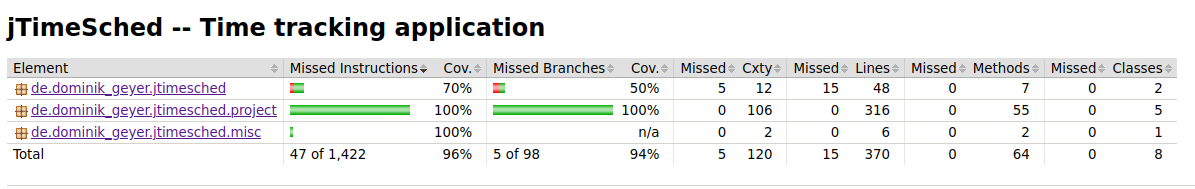
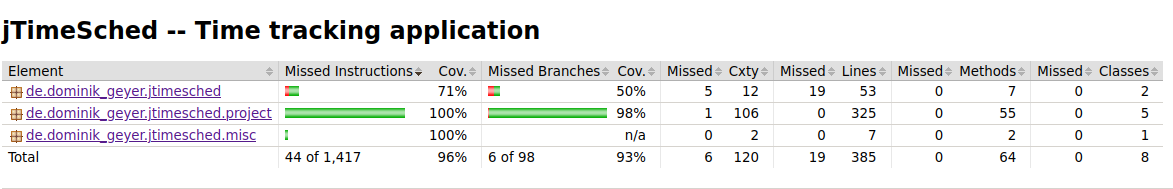
Add new images to the report

Changed region(s): [[0.0, 0.291, 1.0, 0.873], [0.0, 0.0794, 0.4604, 0.2381], [0.0, 0.9788, 1.0, 1.0]]

diff --git a/docs/05_assignment/05_assignment.md b/docs/05_assignment/05_assignment.md
@@ -11,12 +11,8 @@ And having into account the report generated by the _Jacoco_ plugin:
 
 ![](./figures/old_coverage_classes.png)
 
-<!-- TODO: ask about where to see the line coverage -->
-The percentage of test coverage represented by the tests in _assignments #3 and #2_ is **only 14%** in _branch coverage_ and **?%** in _line coverage_ , when not considering the _gui_ classes.
+The percentage of test coverage represented by the tests in _assignments #3 and #2_ is **only 15%** in _line coverage_ and **14%** in _branch coverage_ , when not considering the _gui_ classes.
 
-<!-- $$ line\space coverage = [1- \frac{273+48+6}{316+48+6}] \times 100\% = 11.62\%$$
-
-$$ branch\space coverage = [1-\frac{87+12+2}{106+12+2}] \times 100\% = 15.83\%$$ -->
 
 Yet, each test case from these assignments covered its target function at 100% in both _line coverage_ and _branch coverage_.
 
@@ -447,7 +443,6 @@ Assertions.assertEquals(expected, columnClass);
 **Outcome**: The tests passed successfully.
 
 #### Test 40 - testGetValueAt
-<!-- TODO: stopped reviewing here -->
 This test assesses a value of a project in a specific position in the `ProjectTableModel` instance.  
 
 This test works with two projects, in order to cover the branches. 
@@ -687,7 +682,7 @@ The first checks the name of the tag, the second checks the value associated, wh
 
 This test reads a `xml` file and verifies if all information contained in it was stored. For this, we have created a file to be read, located at `docs/05_assignment/inputDir/projectTest`.  
 
-This file contains two projects. The first one was designed to be the simplest as possible: there is no title, quotas, color, it's not checked neither running and no notes. The second project, on the other hand, was designed to be as complete as possible. This approach allows to test all the possible cases of conditions inside the `readXml` function. <!--TODO -->
+This file contains two projects. The first one was designed to be the simplest as possible: there is no title, quotas, color, it's not checked neither running and no notes. The second project, on the other hand, was designed to be as complete as possible. This approach allows to test almost all the possible cases of conditions inside the `readXml` function.
 
 In total there're 19 assertions in this tests. All of them are `assertEquals` verifications. 
 
@@ -750,7 +745,13 @@ In this test we verify if that the configuration folder is created when it does 
 
 ### Line and Branch Coverage
 
+In the end, we achieved **96%** of _line coverage_ and **93%** of _branch coverage_.
+
 ![](./figures/new_coverage.png)
 
-**Inputs**:
-**Outcome**: The tests passed successfully.
+![](./figures/new_coverage_project.png)
+
+![](./figures/new_coverage_misc.png)
+
+![](./figures/new_coverage_main.png)
+
